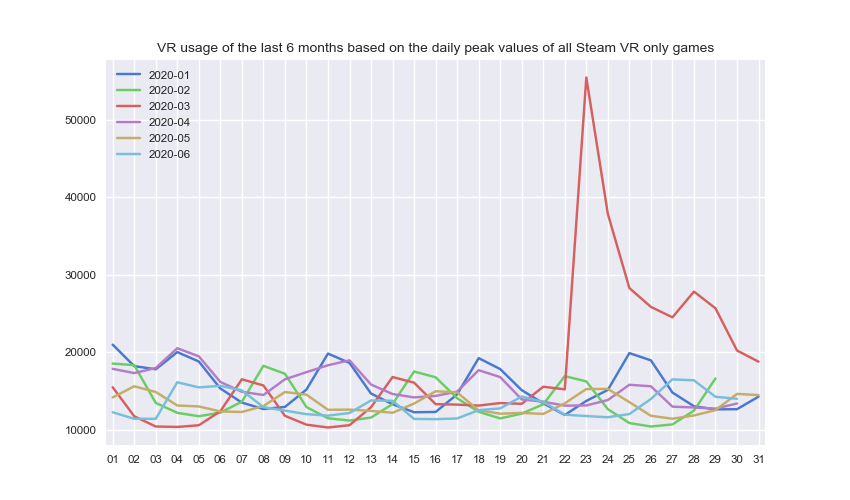
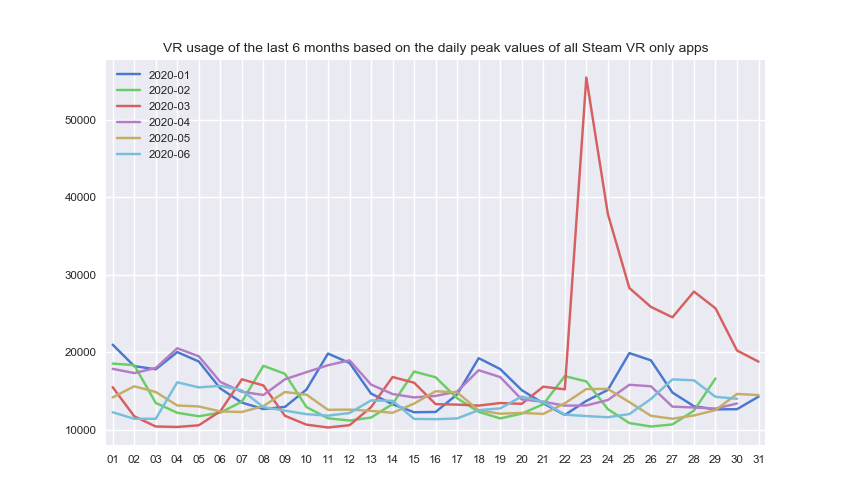
update

Changed region(s): [[0.1835, 0.09, 0.8565, 0.12]]

diff --git a/src/create_charts.py b/src/create_charts.py
@@ -117,7 +117,7 @@ def line_charts(starting_date):
     # Chart 2
     plt.subplots()
     chart_title = "VR usage of the last 6 months based on the daily " \
-                  "peak values of all Steam VR only games"
+                  "peak values of all Steam VR only apps"
     months = ("2020-01", "2020-02", "2020-03", "2020-04", "2020-05", "2020-06")
     for month in months:
         sql_result = sql.max_peak_players_monthly(month)
@@ -136,7 +136,7 @@ def line_charts(starting_date):
 
 
 def bar_chart_plot(sql_result, chart_title, labels):
-    """Creates a chart of the 10 most used VR games since 2020 with the seaborn library."""
+    """Creates a chart of the 10 most used VR apps since 2020 with the seaborn library."""
 
     # Defines the used graphic style and reduces the text size to fit all information on the chart
     sns.set_style("whitegrid")

diff --git a/README.md b/README.md
@@ -4,4 +4,3 @@ This project analyses all Steam VR only games and determines the daily number of
 <img src="/images/avg_peak_over_time.png" width="850" height="500">
 <img src="/images/top10_max_peak.png" width="850" height="500">
 <img src="/images/monthly_vrusage.png" width="850" height="500">
-<img src="/images/max_peak.png" width="850" height="500">
